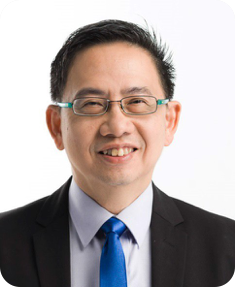
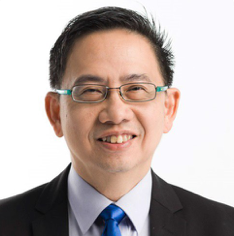
added agenda and updated pics

diff --git a/_includes/venue.html b/_includes/venue.html
@@ -8,7 +8,7 @@
             <h5>2 Kallang Sector</h5>
             <h5>Singapore - 349277</h5>
             <h5>Near Potong Pasir MRT</h5>
-            <h5><a href="https://goo.gl/maps/EtN1mDX5BJv" target="blank">Direction to the Workshop Venue</a></h5>
+            <h5><a href="https://goo.gl/maps/EtN1mDX5BJv" target="blank">Direction to the Venue</a></h5>
             <br/>
             <div class="row venue-row">
                 <div class="col-md-8 col-sm-8 venue-col">

diff --git a/_includes/workshop.html b/_includes/workshop.html
@@ -8,7 +8,7 @@
         <h4>PlugIn@BLK71</h4>
         <h5>71 Ayer Rajah Crescent, 02-01, 139951</h5>
         <h5>Near One-North MRT</h5>
-        <h5><a href="https://goo.gl/maps/EtN1mDX5BJv" target="blank">Direction to the Workshop Venue</a></h5>
+        <h5><a href="https://goo.gl/maps/EtN1mDX5BJv" target="blank">Direction to the Venue</a></h5>
         <br/>
             
         {% for day in site.data.workshop %}
